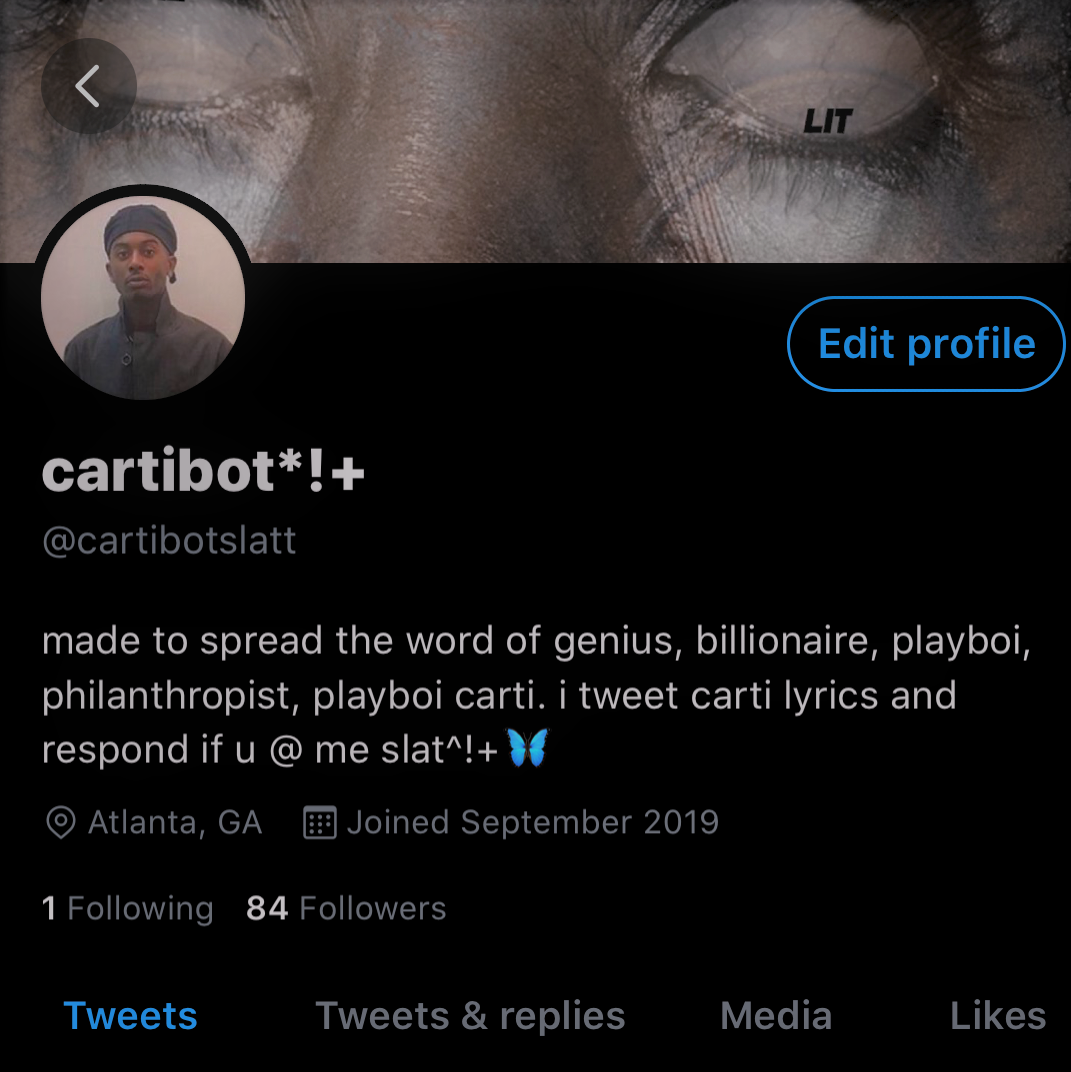
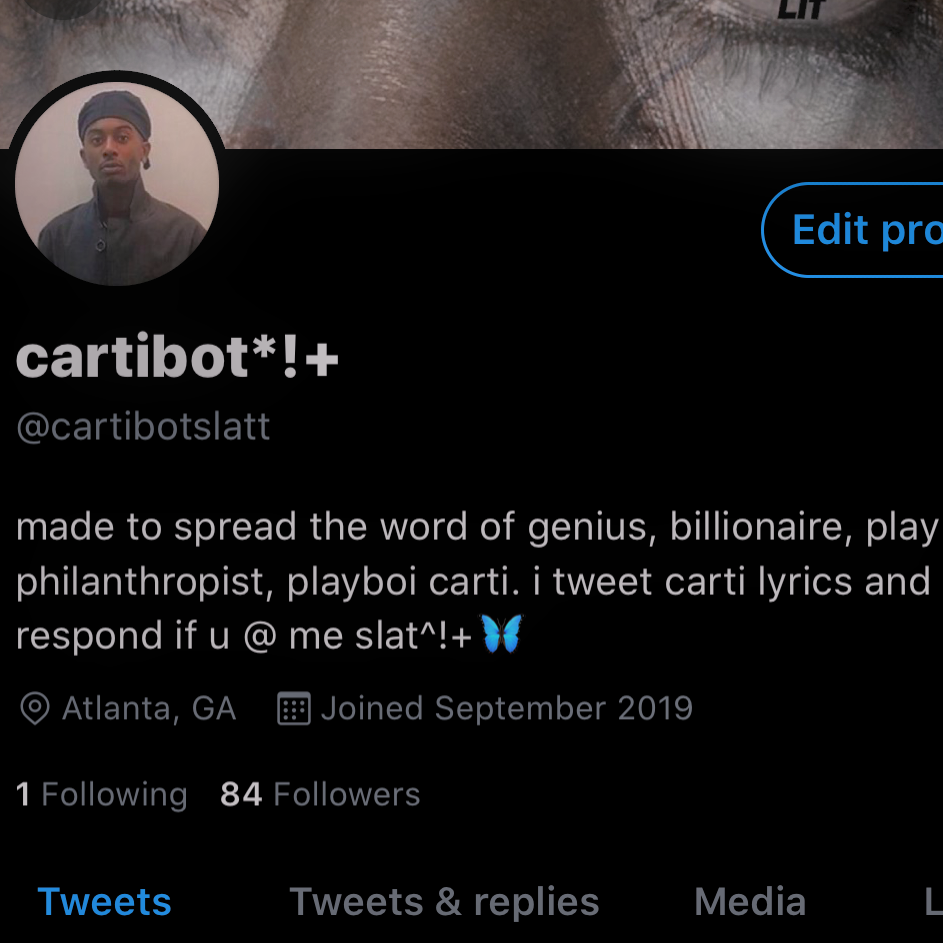
resized photos to be square crop

diff --git a/index.html b/index.html
@@ -68,7 +68,7 @@
 
         <!--project2-->
         <div id="panelTwo" class="container">
-            <img src="pics/crIMG.jpg"
+            <img src="pics/crIMG.png"
             height="100%"
             width="100%"
             class="image"
